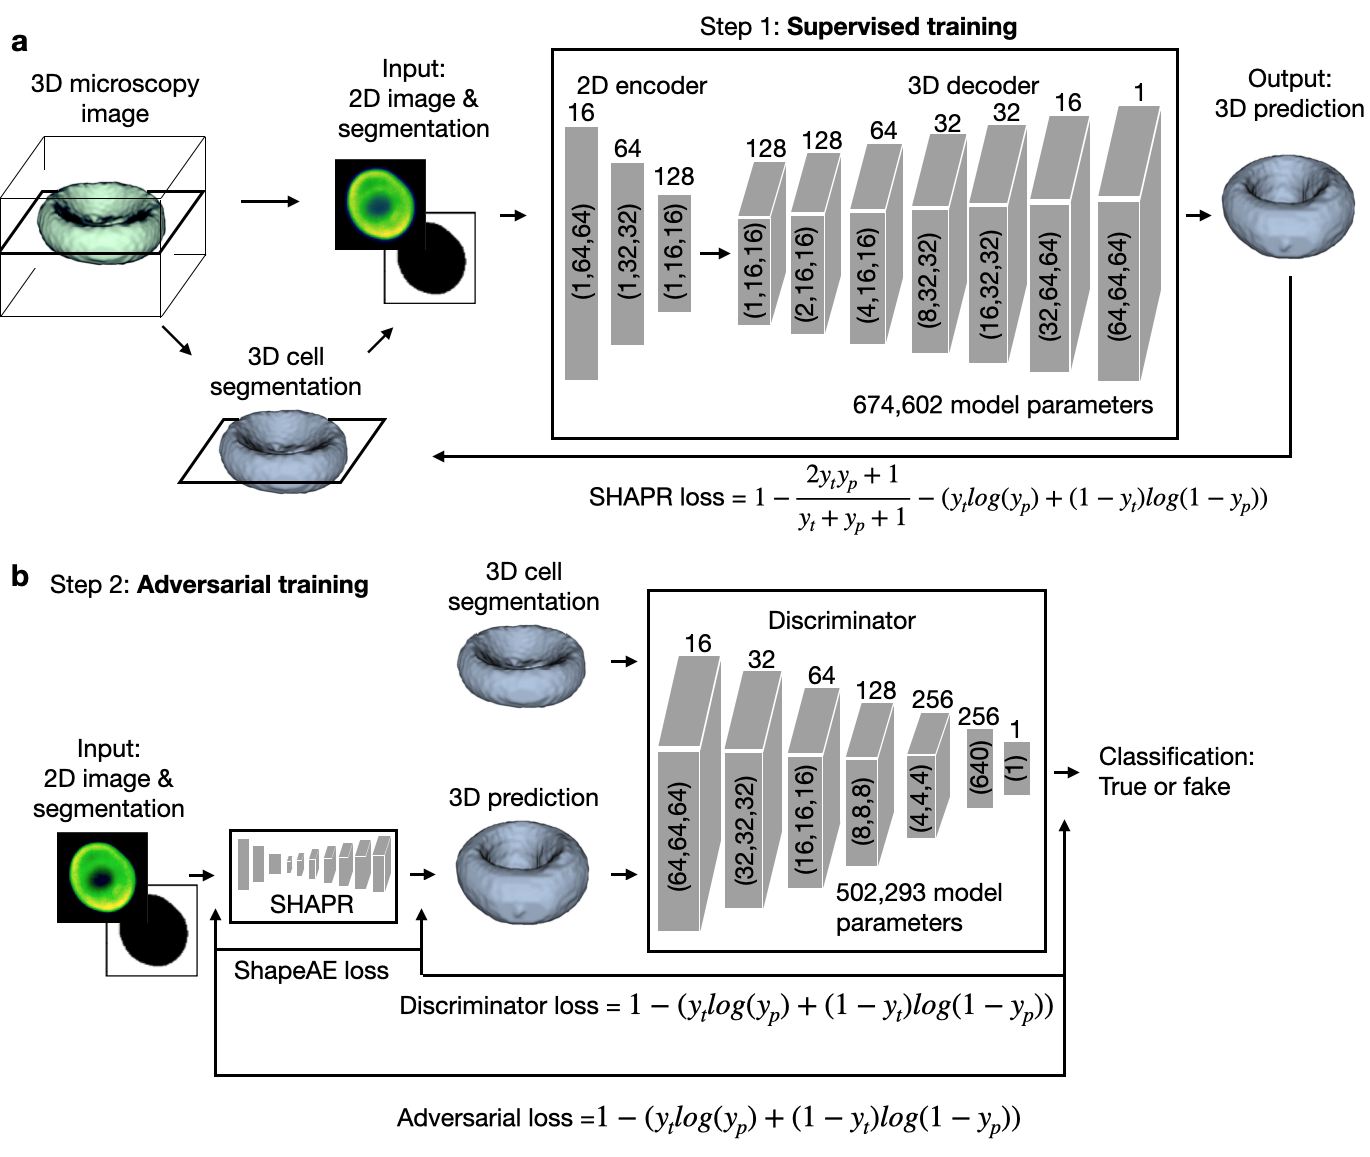
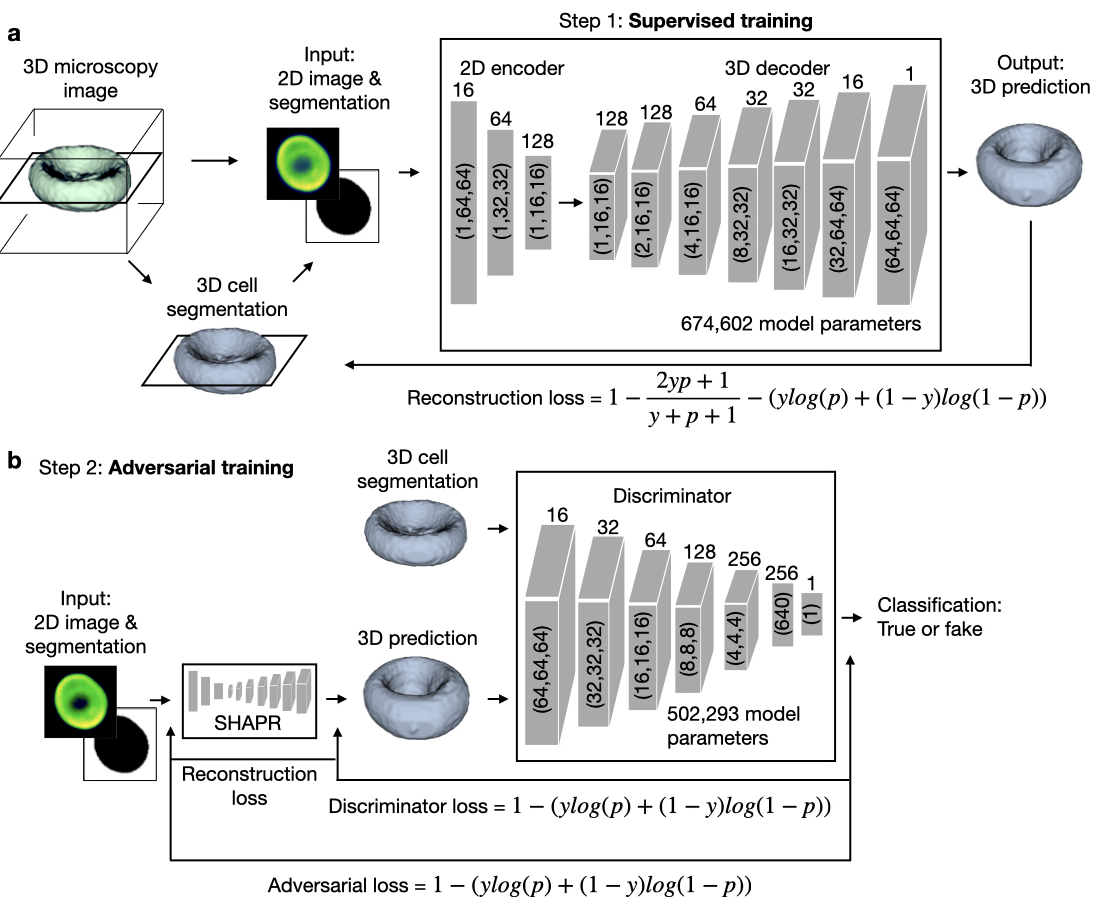
updated the figure to match the manuscript

diff --git a/setup.py b/setup.py
@@ -7,7 +7,7 @@ def read(fname):
 
 setup(
     name = 'shapr',
-    version='0.0.1',
+    version='0.0.2',
     author='Dominik Waibel, Niklas Kiermeyer, Mohammad Mirkazemi',
     author_email='dominik.waibel@helmholtz-muenchen.de',
     license='MIT',

diff --git a/README.md b/README.md
@@ -13,7 +13,7 @@ please refer to our preprint on bioRxiv
 <p align="center">
 <img src="shapr_architecture.png"  width="600" />
 </p>
-SHAPR enables the prediction of 3D single cell shapes from 2D microscopic images. a, SHAPR consists of a 2D encoder, which embeds 2D images into a 128 dimensional latent space, and a 3D decoder, which reconstructs the 3D shape from the latent space representation. To train SHAPR we segment the 3D shapes of single cells (we show an exemplary single red blood cell) from 3D microscopy images and pair them with a 2D segmentation of one slice of the single cell. The 2D slice is accompanied by a microscopy image of the same slice to enter the encoder as input. During training, we minimize the SHAPR loss, which is the sum of the dice coefficient loss and the binary cross entropy loss. For an input image of 64 x 64 pixels, we provide the pixel sizes for each layer in the gray boxes and the filter sizes on top of each box. b, To finetune SHAPR we add a discriminator to create a conditional adversarial autoencoder. The discriminator is trained to differentiate between SHAPR output and the ground truth 3D segmentation and to minimize the adversarial loss. It thereby challenges SHAPR to output realistic 3D objects. We optimize the parameters of the discriminator and SHAPR in an alternating fashion. c, The trained SHAPR model predicts the binary 3D cell shape from 2D image sections.
+a, SHAPR consists of a 2D encoder, which embeds 2D images into a 128-dimensional latent space, and a 3D decoder, which reconstructs 3D shapes from the latent space representation. To train SHAPR we segment 3D microscopy images (we show an exemplary single red blood cell). We pair a 2D segmentation with the microscopy image of the same slice to enter the encoder as input. During supervised training (Fig. 1, step 1), we minimize the reconstruction loss (see Methods), which is the sum of the Dice loss and the binary cross entropy loss between the 3D segmentations y and SHAPR predictions p. For an input image of 64 x 64 pixels, we provide the pixel sizes for each layer in the gray boxes and the filter sizes on top of each box. b, In the second step, we fine-tune SHAPR by adding a discriminator. The discriminator is trained to differentiate between SHAPR output p ground truth segmentation r and minimize the adversarial loss. It thereby challenges SHAPR to output realistic 3D objects.
 
 
 ## Installation:
